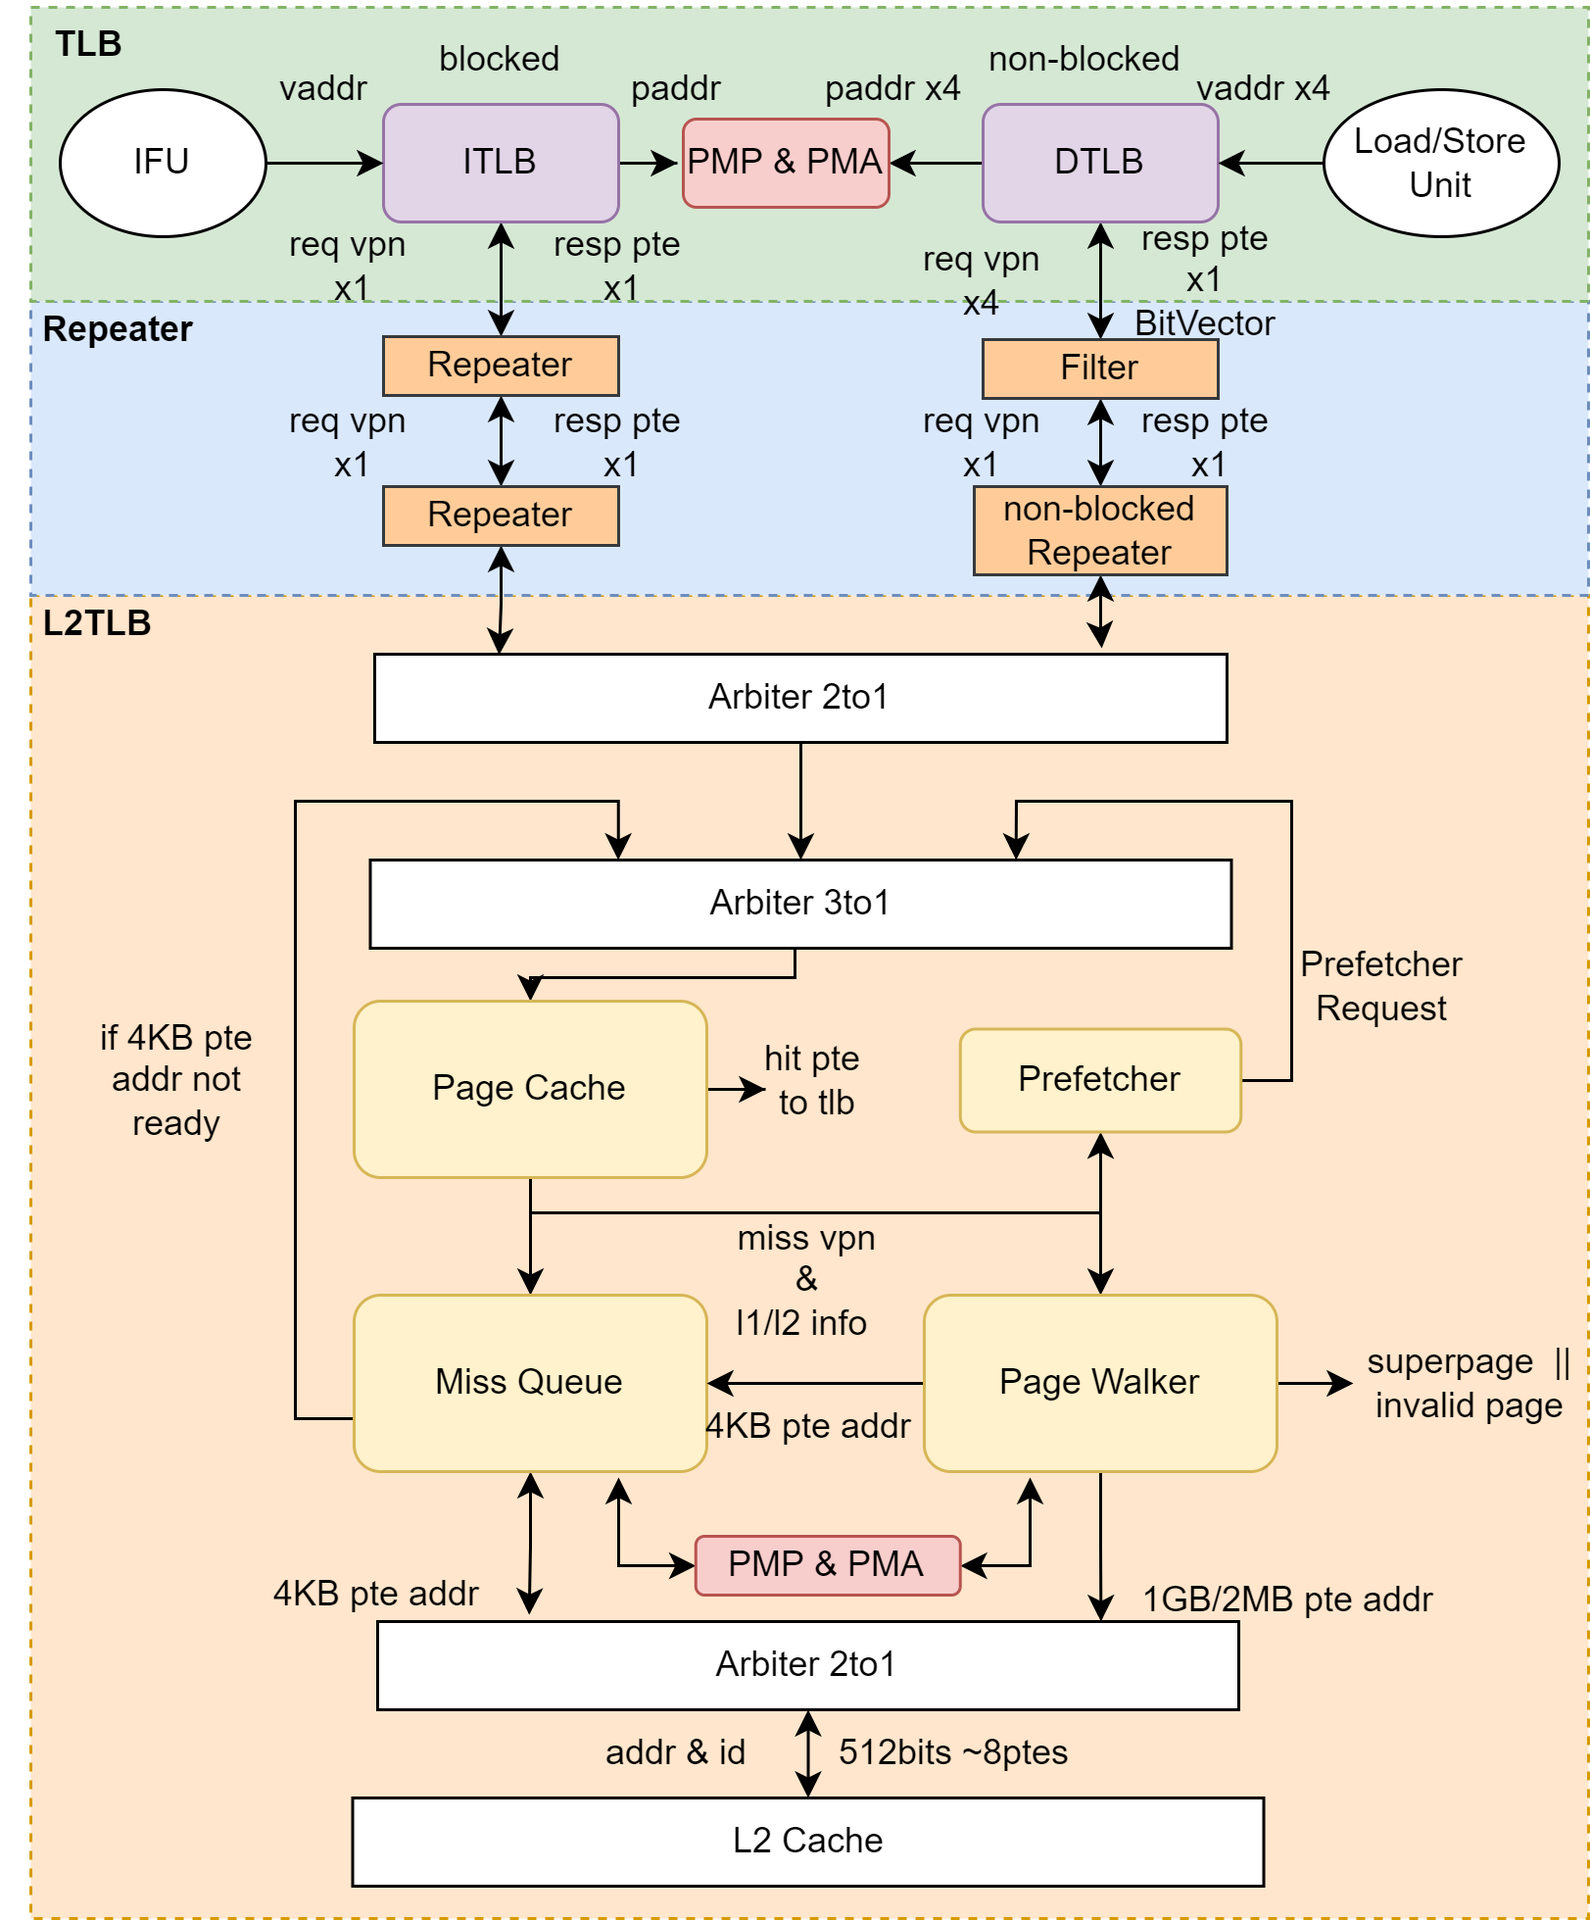
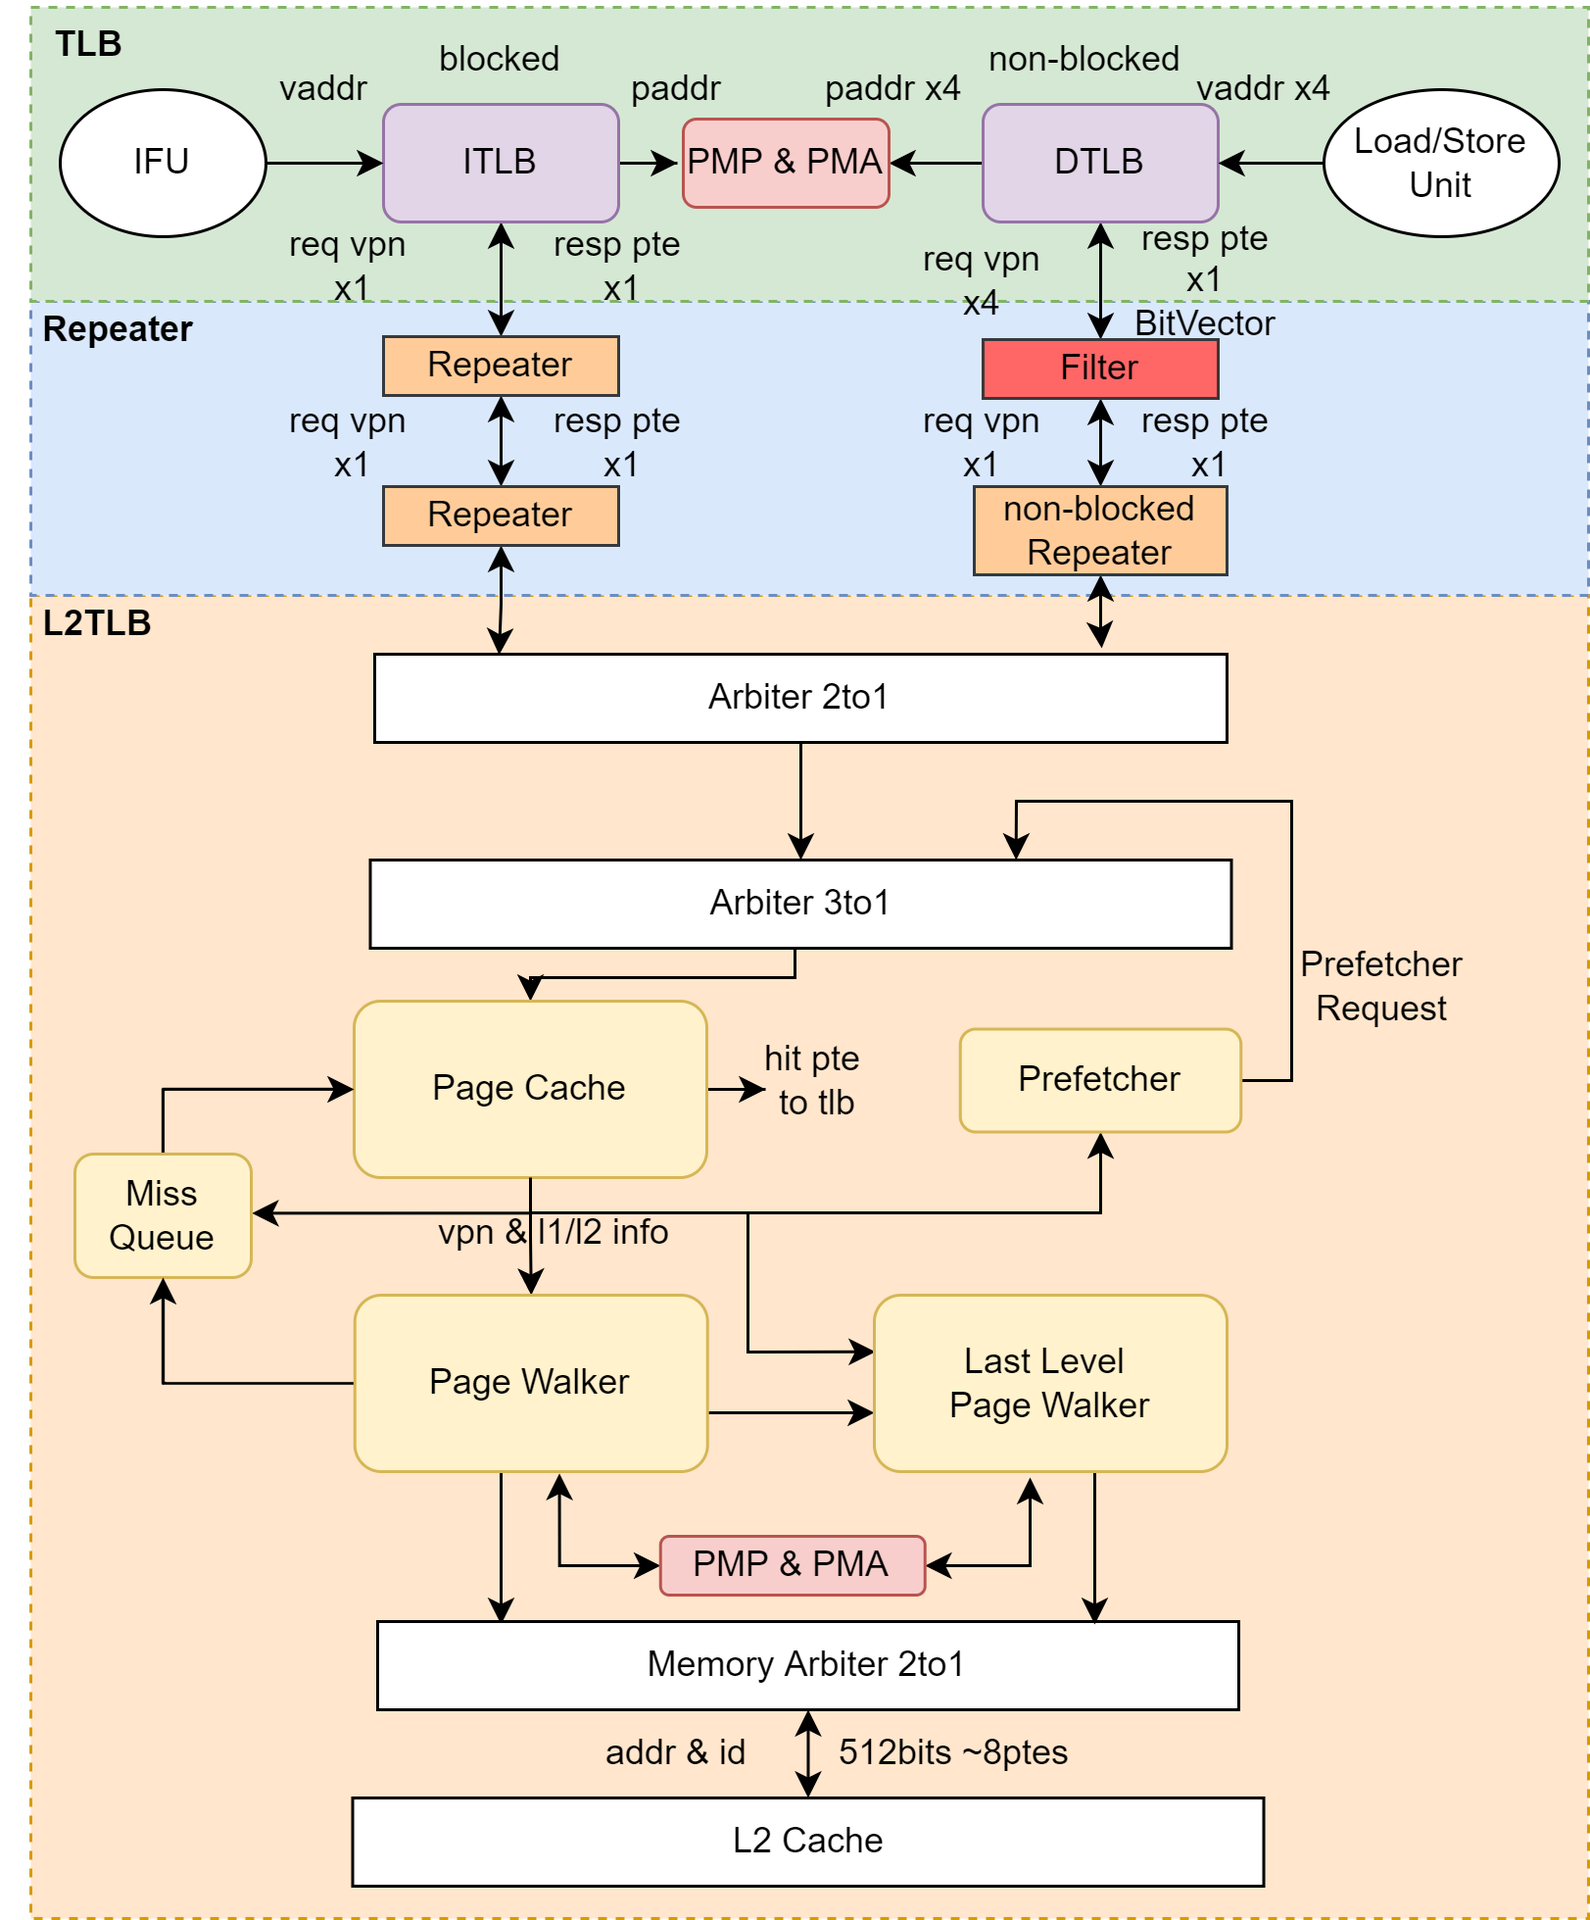
doc, mmu: update some mmu changes

diff --git a/docs/memory/mmu/l2tlb.md b/docs/memory/mmu/l2tlb.md
@@ -7,49 +7,54 @@ L2 TLB 是更大容量的页表缓存，但同时也包含了 Page Table Walker 
 L2 TLB 包含四个主要单元：
 
 1. Page Cache：缓存页表，Sv39 的 3 层页表全部且分开缓存，可以一拍完成 3 层信息的查询
-2. Page Walker：查询内存中的页表，本质为状态机
-3. Miss Queue：缓存查询 Page Cache 的 miss 的请求，同时也查询内存中的页表
-4. Prefetcher：预取器
+2. Page Walker：查询内存中的前两级页表，本质为状态机
+3. Last Level Page Walker：查询内存中的最后一级页表
+4. Miss Queue：缓存查询 Page Cache 和 Last Level Page Walker 的 miss 的请求
+5. Prefetcher：预取器
 
-从 一级 TLB 来的请求会先访问 Page Cache，如果命中，会直接返回给一级 TLB，如果缺失，会进入 Page Walker 或者 Miss Queue。
-在 Page Walker 中，会遍历页表。在 Miss Queue 中，要么再次访问 Page Cache，要么访问内存中的页表，访问页表结束后，可以直接返回给一级 TLB。
-预取器会监控 Page Cache的查询结果，产生预取请求，预取的结果会存到 Page Cache 中，不会返回给一级 TLB。
+从 一级 TLB 来的请求会先访问 Page Cache，如果命中，会直接返回给一级 TLB，如果缺失，会进入 Page Walker，Last Level Page Walker 或者 Miss Queue。
+通过 Page Walker 和 Last Level Page Walker 可以遍历页表；通过 Miss Queue 等待资源，以便再次访问 Page Cache。访问页表结束后，可以直接返回给一级 TLB。
+预取器会监控 Page Cache 的查询结果，产生预取请求，预取的结果会存到 Page Cache 中，不会返回给一级 TLB。
 
 ## Page Cache
 
 Page Cache 是“名副其实”的 L2 TLB，具有更大的缓存容量，缓存了 3 层页表且分开缓存，因此可以一拍访问 3 层页表。根据虚拟地址判断是否命中，获得最靠近叶子节点的结果。
 Page Cache 只存储有效的页表项，因访存宽度为 512 bits，即 8 项页表，所以 Page Cache 一项含有 8 个页表（1个虚拟页号，8个物理页号，8个权限位）。
 
-Page Cache 的访问分三拍，第一拍发送读信号，第二拍判断是否命中，并且进行 ECC 校验，第三拍返回结果。
+Page Cache 的访问分四拍，第一拍发送读信号，第二拍得到读结果并缓存一拍，第三拍判断是否命中，并且进行 ECC 校验，第四拍返回结果。
 如果 ECC 校验出错，不会向核内发送例外或中断信号，而是无效掉当前项，并返回 miss 结果，重新进行 Page Walk。
 Page Cache 返回它所能提供的信息，包括：
 
-1. 4KB 页表是否命中和页表，返回给一级 TLB
-2. 命中项是否是预取器预取上的，返回给预取器使用
-3. 前两级页表是否命中和命中结果，返回给 Page Walker 使用
+1. 叶子节点（包括 4KB 页表和大页）是否命中以及命中的页表，返回给一级 TLB
+2. 命中项是否是预取器预取得到的，返回给预取器使用
+3. 前两级页表是否命中和命中结果，返回给 Page Walker 或 Last Level Page Walker 使用
 
 ## Page Walker
 
 Page Walker 是一个状态机，根据虚拟地址访问页表，访问规则与 RV 手册中相似，直到：
 
-1. 访问到 2MB 的节点，返回给 Miss Queue，由 Miss Queue 进行最后一级页表的访问
+1. 访问到 2MB 的节点，返回给 Last Level Page Walker，由 Last Level Page Walker 进行最后一级页表的访问
 2. 访问叶子节点，为大页（SuperPage），返回给一级 TLB
 3. 访问到非法节点，页表项的 v 位为 false 等
 
 Page Walker 访存的结果会存到 Page Cache 中。
-Page Walker 同时只能够处理一个请求，并且最多只访问前两级页表，访存能力较弱，原因在 Miss Queue 节说明。
+Page Walker 同时只能够处理一个请求，并且最多只访问前两级页表，访存能力较弱，原因在 Last Level Page Walker 节说明。
+
+## Last Level Page Walker
+
+Last Level Page Walker 为了提高 L2 TLB 的访存能力而存在。Last Level Page Walker 不合并重复的请求，而是记录下来，共享访存结果，避免重复访问内存。
+Last Level Page Walker 接收来自 Page Cache 的 miss 请求，以及 Page Walk 的结果，访问最后一级的页表。
+来自 Page Cache 的请求，如果只差最后一级页表，那么可以访存内存，否则，需要再次访问 Page Cache，直到得到最后一级页表的地址。
+来自 Page Walker 的请求，由于已经得到前两级页表，只差最后一级页表，因此可以访问内存。
+
+Last Level Page Walker 和 Page Walker 分工合作，共同完成 Page Table Walk 的全流程。为了提高访存的并行度，Last Level Page Walker 为请求配置不同的 id，同时拥有多个 inflight 的请求。但是不同请求的前两级（1GB、2MB）可能相同，并且考虑到前两级的 miss 概率比最后一级页表低，因此不考虑提高前两级页表的访问并行度，只设一个 Page Walk，降低设计的复杂度。
 
 ## Miss Queue
 
-Miss Queue 为了提高 L2 TLB 的访存能力而存在。Miss Queue 不合并重复的请求，而是记录下来，共享访存结果，避免重复访问内存。
-Miss Queue 接收来自 Page Cache 的 miss 请求，以及 Page Walk 的结果，访问最后一级的页表。
-来自 Page Cache 的请求，如果只差最后一级页表，那么可以访存内存，否则，需要再次访问 Page Cache，直到得到最后一级页表的地址。
-来自 Page Walker 的请求，只差最后一级页表，可以访问内存。
-
-Miss Queue 和 Page Walker 分工合作，共同完成 Page Table Walk 的全流程。为了提高访存的并行度，Miss Queue 为请求配置不同的 id，同时拥有多个 inflight 的请求。但是不同请求的前两级（1GB、2MB）可能相同，并且考虑到前两级的 miss 概率比最后一级页表低，因此不考虑提高前两级页表的访问并行度，只设一个 Page Walk，降低设计的复杂度。
+Miss Queue 的本质是一个缓冲队列，起到等待资源的作用。Miss Queue 可以接收来自 Page Cache 或 Last Level Page Walker 的请求，等待再次访问 Page Cache。
 
 ## Prefetch
 
 目前采用 NextLine 预取算法，当 miss 或者 hit 但命中项为预取项时，产生下一个预取请求。
-预取请求访问 Page Cache，如果 miss，会接着访问 Miss Queue。因为 Page Walker 的访存能力弱，预取请求不会进入 Page Walker，而是被直接丢弃。
+预取请求访问 Page Cache，因为 Page Walker 的访存能力弱，如果预取请求发生 miss，预取请求并不会进入 Page Walker 或 Miss Queue，而是被直接丢弃。如果预取请求只差最后一节页表，可以访问 Last Level Page Walker。
 预取结果存到 Page Cache 中，不返回给一级 TLB。

diff --git a/docs/memory/mmu/mmu.md b/docs/memory/mmu/mmu.md
@@ -4,7 +4,7 @@
 
 为了实现进程隔离，每个进程都会有自己的地址空间，使用的地址都是虚拟地址。MMU 也就是 Memory Management Unit，在处理器中主要负责将虚拟地址翻译成物理地址，然后用这个物理地址去访存。同时也会进行权限检查，比如是否可写，可执行。
 
-香山处理器支持 Sv39 分页机制，主要特点是虚拟地址长度为39位，低12比特是页内偏移，中间的 27 比特分为三段，也就是三层页表，这意味着遍历页表三次内存访问，因此需要对页表做缓存。
+香山处理器支持 Sv39 分页机制，主要特点是虚拟地址长度为 39 位，低 12 比特是页内偏移，中间的 27 比特分为三段，也就是三层页表，这意味着遍历页表三次内存访问，因此需要对页表做缓存。
 
 香山的 MMU 中，和流水线紧耦合的分别位于前端和后端的 ITLB 和 DTLB，需要考虑流水线的需求，考虑时序问题，比如拆成两拍等操作。当 ITLB 和 DTLB 如果 miss，会发送请求 L2 TLB，当 L2 TLB 也 miss，就会使用 Hardware Page Table Walker 去访问内存中的页表内容。L2 TLB 主要考虑是如何提高并行度和过滤重复的请求。Repeater 是一级 TLB 到 L2 TLB 的请求缓冲。PMP 和 PMA 需要对所有的物理地址访问进行权限检查。
 
@@ -12,21 +12,23 @@
 
 ## TLB
 
-香山的 TLB 可以对组织结构进行配置，包括相联模式、项数及替换策略等。默认配置为 ITLB 32 项普通页和 4 项大页（SuperPage），全相联，伪 LRU 替换；DTLB 为 128 项普通页直接相连，8 项全相联负责所有大小的页，伪 LRU 替换策略。DTLB 的直接相联项是全相联项的 victim cache。
+香山的 TLB 可以对组织结构进行配置，包括相联模式、项数及替换策略等。默认配置为 ITLB 32 项普通页和 4 项大页（SuperPage），全相联，伪 LRU 替换；DTLB 为 64 项普通页直接相连，16 项全相联负责所有大小的页，伪 LRU 替换策略。DTLB 的直接相联项是全相联项的 victim cache。
 
 DTLB 为非阻塞式设计，如果 miss，需要由外部（Load/Store Unit）重发请求。ITLB 在 TLB 的基础上包了一层，实现了简单的阻塞式设计。
-每一条访存流水线都拥有独立的 DTLB，但 Load TLB 和 Store TLB 的内容分别是相同的。通过统一“替换算法”和回填信息维持多个TLB保持相同的内容：
+每一条访存流水线都拥有独立的 DTLB，但 Load TLB 和 Store TLB 的内容分别是相同的。通过统一“替换算法”和回填信息维持多个 TLB 保持相同的内容：
 
 ## L2TLB
 
-L2 TLB 是更大的页表缓存，由 ITLB 和 DTLB 共享，分为 Page Cache，Pake Walker，Miss Queue 和 Prefetcher 四部分。
+L2 TLB 是更大的页表缓存，由 ITLB 和 DTLB 共享，分为 Page Cache，Pake Walker，Last Level Page Walker，Miss Queue 和 Prefetcher 五部分。
 
-一级 TLB 的请求会首先发送给 Page Cache，如果 hit，则会返回给一级 TLB。如果 miss，且 Page Walker 空闲，则进入 Page Walker，否则进入 Miss Queue。
+一级 TLB 的请求会首先发送给 Page Cache，如果 hit，则会返回给一级 TLB。如果 miss，则根据 Page Cache 的查询情况分别进入 Page Walker 或 Last Level Page Walker 进行查询。如果 Page Walker 或 Last Level Page Walker 已被占用，则进入 Miss Queue 等待资源。
 同时为了加快页表访问，Page Cache 将三级页表都做了缓存。Page Cache 支持 ecc 校验，如果 ecc 校验出错，则刷新此项，并重新进行 Page Walk。
 
-Page Walker 接收 Page Cache 的请求，进行 Hardware Page Table Walk。Page Walker 只访问前两级页表，即 1GB 和 2MB，不访问 4KB 页表。对 4KB 页表的访问由 Miss Queue 承担。Page Walker 如果访问到叶子节点，即大页或空页，则返回给一级 TLB，否则送往 Miss Queue。Page Walker 同时只能处理一个请求。
+Page Walker 接收 Page Cache 的请求，进行 Hardware Page Table Walk。Page Walker 只访问前两级页表，即 1GB 和 2MB，不访问 4KB 页表。对 4KB 页表的访问由 Last Level Page Walker 承担。Page Walker 如果访问到叶子节点，即大页或空页，则返回给一级 TLB，否则送往 Last Level Page Walker。Page Walker 同时只能处理一个请求。
 
-Miss Queue 接收来自 Page Cache 和 Page Walker 的请求，承担两项任务：miss 请求的缓冲，等到重新访问 Page Cache，以及访问最后一级页表。Page Walker 可以同时处理 N 个请求，N 为 Miss Queue 的项数。因为对页表的访问集中于最后一级页表，因此 L2 TLB 主要通过 Miss Queue 提高访存并行度，但限制 Page Walker 的访存能力，避免重复访存的发生。
+Last Level Page Walker 接收来自 Page Cache 和 Page Walker 的请求，访问最后一级页表。Last Level Page Walker 可以同时处理 N 个请求，N 为 Last Level Page Walker 的项数。因为对页表的访问集中于最后一级页表，因此 L2 TLB 主要通过 Last Level Page Walker 提高访存并行度，但同时限制 Page Walker 的访存能力，避免重复访存的发生。
+
+Miss Queue 接收来自 Page Cache 和 Last Level Page Walker 的请求，作为 miss 请求的缓冲，等待重新访问 Page Cache。
 
 Page Cache 的结果引发预取请求的产生，预取请求的处理请求与普通一级 TLB 请求相似，不同点在于：预取请求不会返回给一级 TLB；预取请求进入 Miss Queue 时，如果前两级页表 miss，会被直接丢弃，防止占用过多 Page Cache 和 Page Walker 的资源。目前采用 NextLine 预取算法。
 

diff --git a/docs/memory/mmu/tlb.md b/docs/memory/mmu/tlb.md
@@ -8,7 +8,7 @@ TLB（Translation Lookaside Buffer）负责进行地址翻译。
 
 ## 组织形式
 
-核内进行访存之前，包括前端取指和后端访存两部分，都需要由 TLB 进行地址翻译。因物理距离较远，并且为了避免相互污染，前端的 ITLB（instruction TLB）和后端访存的 DTLB（Data TLB）是两个的 TLB。ITLB 采用全相联模式，32项普通页（NormalPage）负责 4KB 页，8项大页（SuperPage）负责 2MB 和 1GB 的地址转换。DTLB 采用混合模式，128项普通页直接相联负责 4KB 页，8项大页全相联负责全部大小的页，采用伪 LRU 替换策略。普通页部分提供容量，但灵活性低，易冲突；大页部分灵活性强，但容量小。因此将普通页部分作为大页部分的 Victim，回填时，先回填大页部分，大页部分驱逐的项写到普通页部分（仅限 4KB 页）。
+核内进行访存之前，包括前端取指和后端访存两部分，都需要由 TLB 进行地址翻译。因物理距离较远，并且为了避免相互污染，前端的 ITLB（instruction TLB）和后端访存的 DTLB（Data TLB）是两个的 TLB。ITLB 采用全相联模式，32 项普通页（NormalPage）负责 4KB 页，8 项大页（SuperPage）负责 2MB 和 1GB 的地址转换。DTLB 采用混合模式，64 项普通页直接相联负责 4KB 页，16 项大页全相联负责全部大小的页，采用伪 LRU 替换策略。普通页部分提供容量，但灵活性低，易冲突；大页部分灵活性强，但容量小。因此将普通页部分作为大页部分的 Victim，回填时，先回填大页部分，大页部分驱逐的项写到普通页部分（仅限 4KB 页）。
 
 访存拥有 2 个 Load 流水线，2 个 Store 流水线，为了时序考虑，它们需要一个单独的 TLB。同时为了性能考虑，这些 TLB 的内容需要保持一致，类似于相互预取。因此，这 4 个 DTLB 采用“外置”的替换算法模块，以保证内容的一致。
 
